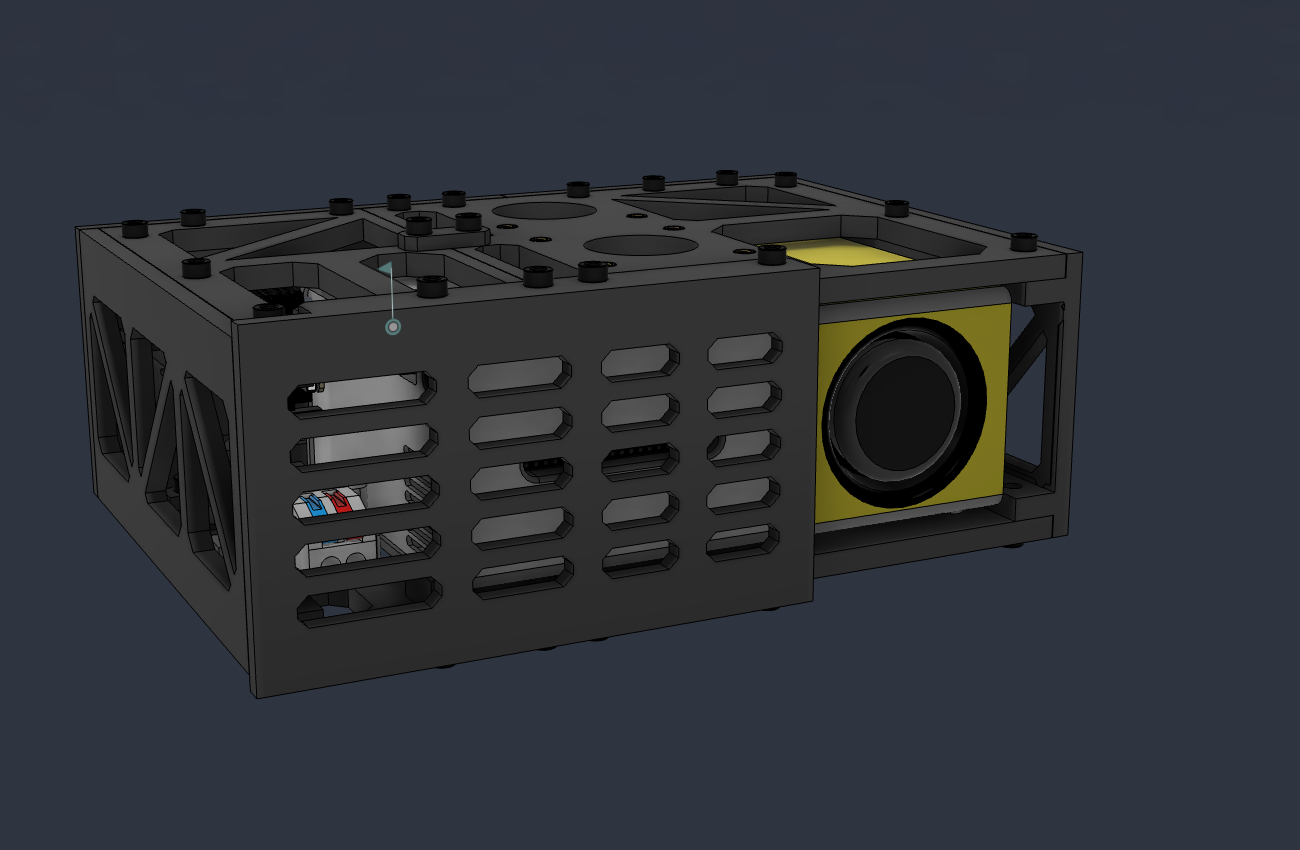
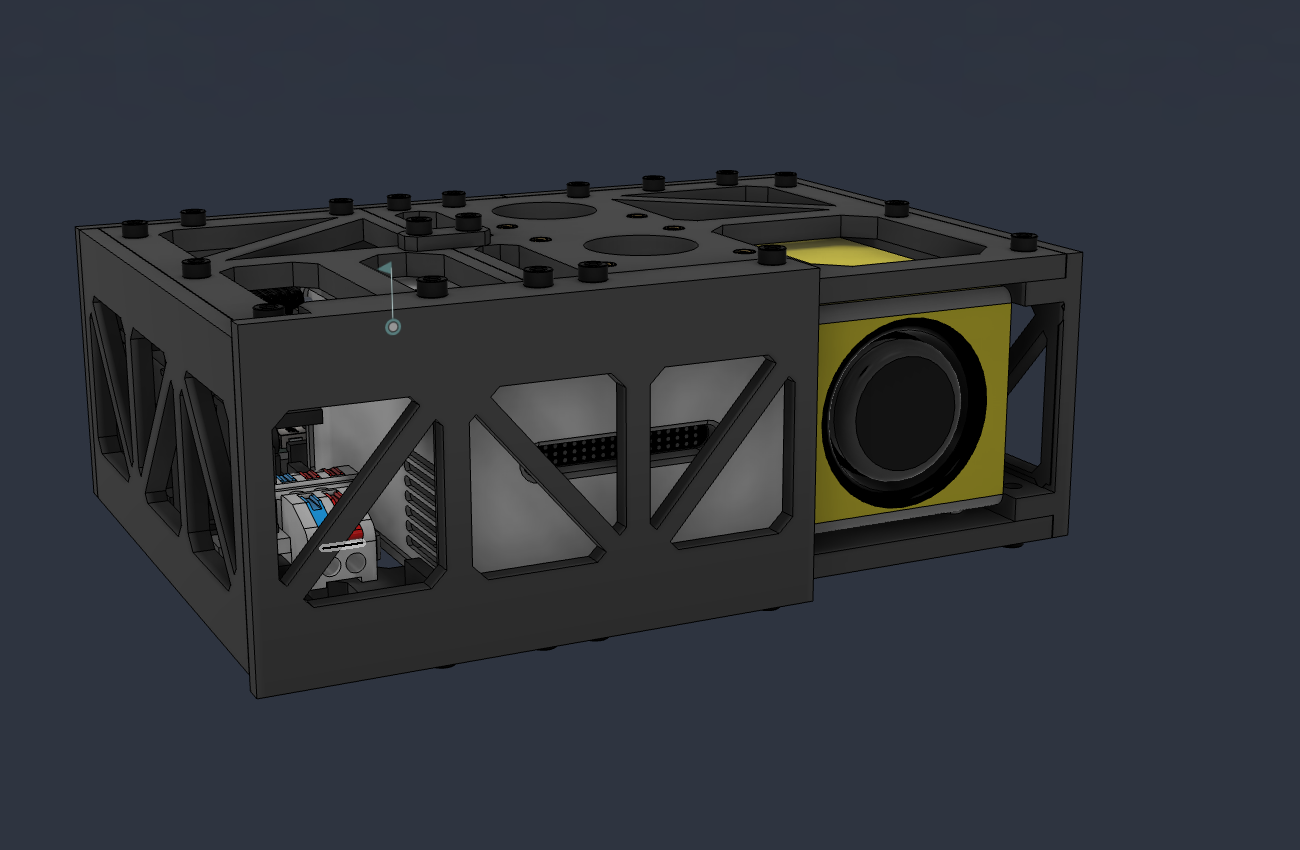
Enclosure: front grill with truss bays like the side panels
Slot rows out, three truss bays in. Lips and screws unchanged, fastener counts unchanged. CAGE.md and DESIGN_LANGUAGE.md follow, pictures 01, 03 and 08 taken again. Fusion: komorebi-cage version 24, komorebi-box version 51.

Claude-Session: https://claude.ai/code/session_01QMJv3CE2wa8HX6C5WvgqiM

Changed region(s): [[0.1846, 0.3976, 0.6154, 0.7341]]

diff --git a/enclosure/CAGE.md b/enclosure/CAGE.md
@@ -62,6 +62,7 @@ From Saurabh on `2026-11-25`, after the first prints:
 - **A board in a tray is held by a small clamp bar with one screw.** No snap arms.
 - **The side panels are truss bays,** like the modular Doscher frames. No half cut window, no cut-out made for one plug, and not just an open frame. Both sides as close as possible.
 - **The cage keeps its size.** The front grill stops the projector at the front.
+- **The front grill follows the sides.** Truss bays, no slot rows.
 - **A blower cools the projector's heat sink.** He takes the projector's cover off. The corner is full of wires, so the blower must leave them room.
 
 ---
@@ -130,8 +131,11 @@ All in mm, in the coordinates of `komorebi-box`: Y is up, the lens face is +Z, t
     "lip_z": [31.0, 40.2],
     "screw_x": [-86.1, -65.5, -54.5, -16.5],
     "screw_z": 35.5,
-    "slot_rows_y": [8.3, 17.8, 27.3, 36.8, 46.3],
-    "slot_height": 6.0,
+    "bays": 3,
+    "bay_x": [[-119.1, -88.07], [-83.07, -52.03], [-47.03, -16.0]],
+    "bay_y": [9.0, 45.0],
+    "post": 5.0,
+    "brace": 4.0,
     "projector_front_vent_x": [-68.7, -28.0],
     "projector_front_vent_y": [24.4, 30.3]
   },
@@ -224,7 +228,7 @@ In `komorebi-cage`: 19 components, 20 pieces with the second strap. Every part l
 | Rear frame | `Cage: rear frame` | 1 | 77.4 x 61 x 17 | The +X part, behind the Pico. Window behind the Pico, two holes for the Pico holder |
 | Rear frame, port | `Cage: rear frame, port` | 1 | 100.9 x 61 x 17 | The -X part, with the knob, the button and the DC socket |
 | Seam strap | `Cage: seam strap` | 2 | 19 x 8 x 3 | Flat bar with two holes across the plate seam, on the outside. One on the floor, one on the top, in the middle of the seam |
-| Front grill | `Cage: front grill` | 1 | 113.1 x 67 x 13.2 | Slotted web in front of the plate edges, from the -X end up to the lens panel. A lip over the outside of each plate |
+| Front grill | `Cage: front grill` | 1 | 113.1 x 67 x 13.2 | Web with three truss bays in front of the plate edges, from the -X end up to the lens panel. A lip over the outside of each plate |
 | Pico holder | `Pico holder: base` | 1 | 61.5 x 25.8 x 7.9 | Plate on the inside of the rear frame. Four posts with M2.5 inserts, two bosses with M3 inserts |
 | Buck tray | `Buck converter holder: tray` | 1 | 43.8 x 21.1 x 11 | Tray with a fixed lip, an end stop and a boss with an insert, see [Buck tray](#buck-tray) |
 | Buck clamp bar | `Buck converter holder: clamp bar` | 1 | 22.7 x 7.1 x 2.4 | Flat bar with a tab over the board's rear edge, one hole |
@@ -268,7 +272,12 @@ A partial front frame. It covers the front from the -X end up to the lens panel.
 - **It has no flanges.** There are 2 mm between a plate and the projector, and 3.8 mm in front of the projector. A flange with an insert does not fit there.
 - **It has a lip over the outside of each plate instead,** 3 thick and 9 deep. Four M3 x 8 per lip go through the lip into inserts in the plate, like on a strap.
 - **The two middle screws of each lip sit left and right of the plate seam.** So the grill is the front strap as well. Its web ties the two floor parts, the two top parts and the port end frame together.
-- **Five rows of slots.** The middle row is on the projector's own front vent. One mullion is on the plate seam, one on the projector's -X end.
+- **Three truss bays, like the side panels.** The same posts, braces and gussets, the same bay height. A bay is 31 wide here and 33.3 on the sides, because the grill is shorter.
+- **The zigzag goes on around the -X corner.** The last brace of the port end frame ends at the bottom of the corner, the first brace of the grill starts there.
+- **The second post stands in front of the projector's -X edge.**
+- **The projector's front vent is behind the second and the third bay.** Two braces and one post cross it, the rest is open.
+- **The grill is the projector's front stop.** Posts and braces are 4 mm in front of the model's front face, see [Projector stops](#projector-stops).
+- **No slot rows any more.** Saurabh's call on `2026-11-25`: the front has to look like the sides.
 - **It stops at X -11.** The lens panel starts at X -10.6.
 - **The lips start 14 mm in from the -X end.** A frame screw has its head under the floor there.
 - **It prints on its front face,** the lips stand up. 113 x 67 on the bed.
@@ -468,6 +477,7 @@ Saurabh on `2026-11-23`, after the split:
 Saurabh on `2026-11-25`, with almost everything printed except the front grill:
 
 - **Do the lips of the front grill hold on the plates?** The lips were reworked. Only the grill changed.
+- **The slot rows of the front grill do not fit the sides.** The grill has three truss bays now, see [Front grill](#front-grill).
 - **What else was overlooked?** A list with pictures, no edits. He tested most of it and said it is fine. Three points got fixed, the next three.
 - **The buck tray gets a small clamp bar with one screw.** Done, see [Buck tray](#buck-tray).
 - **The front corner of the port top plate had no screw.** It has one now, see [Side panels](#side-panels).
@@ -483,7 +493,7 @@ Saurabh on `2026-11-25`, with almost everything printed except the front grill:
 
 ## Checks
 
-Done on `2026-11-25` in `komorebi-cage` version 23 and `komorebi-box` version 49, by cutting the bodies with each other.
+Done on `2026-11-25` in `komorebi-cage` version 24 and `komorebi-box` version 51, by cutting the bodies with each other.
 
 - **No printed part cuts into another printed part.** All 20 pieces against each other.
 - **The blower, the two Wagos, the DC plug, the HDMI plug and the four new holder parts cut into nothing they should not.** The plugs sit in the projector's jacks, as before.
@@ -505,6 +515,7 @@ Room around the new parts:
 | Wago and terminal block | 0.6 |
 | Wago clamp bar and terminal block | 1.9 |
 | Wago and HDMI plug | 15.5 |
+| Front grill and projector model | 4.0 |
 
 > [!Warning]
 > **Two M2.5 heads at the Pico's USB end sit 0.35 mm in the shell of the USB socket,** in the model. File a flat on the two heads, or put that pair back to M2.
@@ -512,7 +523,7 @@ Room around the new parts:
 From `2026-11-23`, not checked again:
 
 - **One touch stays:** the socket's flange on the panel, under 0.1 mm.
-- **The projector's buttons, focus lever and ports are open.** Its front vent is behind the middle slot row of the grill.
+- **The projector's buttons, focus lever and ports are open.** Its front vent is behind the second and the third bay of the grill.
 
 ---
 
@@ -530,9 +541,9 @@ From `2026-11-23`, not checked again:
 - [ ] **Real size of the projector,** width, depth, height, and how far the lens ring stands out. Only the depth problem is known.
 - [ ] **PLA next to the projector's vents.** PLA gets soft at 55 to 60 degrees. The rear frame and the floor are 14 to 36 mm from the vents. Fine with the stock LED as far as we know, not checked with the brighter LED. PETG is the fallback. The blower bracket sits closest to the heat sink now.
 - [ ] **Which plug goes into the projector.** `HDMI-CY-17-UP` is plugged in now. Both CY models are 10.5 wide, which is mini HDMI size.
-- [ ] **Grill in front of the projector's front vent.** The middle slot row is on the vent, two mullions cross it. Not checked with the projector running.
+- [ ] **Grill in front of the projector's front vent.** Two braces and one post cross the vent, the rest is open. Not checked with the projector running.
 - [ ] **Head of the camera screw.** No model. A head up to 21 mm across clears the lip of the grill.
-- [ ] **[cad/build_cage.py](cad/build_cage.py) is behind the cage.** Bring it up to version 23 or retire it, see [Fusion traps](#fusion-traps).
+- [ ] **[cad/build_cage.py](cad/build_cage.py) is behind the cage.** Bring it up to version 24 or retire it, see [Fusion traps](#fusion-traps).
 - [x] **Lips or loose stops.** Decided on `2026-11-25`: fewer lips, the grill is the front stop, see [Projector stops](#projector-stops).
 - [x] **Snap hooks against the real board.** The snap arms are gone, a clamp bar holds the board, see [Buck tray](#buck-tray).
 
@@ -549,7 +560,7 @@ Print:
 3. **`Pico holder: base`:** M2.5 posts.
 4. **`Terminal block holder: clamp bar`.**
 5. **`Blower holder: bracket`** and **`Blower holder: clamp bar`:** after the heat sink is measured. The bracket lies on its wall face, Z reads 32.2 in the slicer.
-6. **`Cage: front grill`:** not printed yet, print the current one.
+6. **`Cage: front grill`:** not printed yet. Print the current one, with the truss bays.
 7. **`Wago holder: bracket`** and **`Wago holder: clamp bar`.** The bracket lies on its wall face, Z reads 9.4 in the slicer.
 
 Change by hand on the printed parts:
@@ -608,3 +619,5 @@ Change by hand on the printed parts:
 - Saurabh asked how the blower bracket is supposed to print. It lies on its wall face. The slicer step is in [Blower](#blower) and in [Print again](#print-again) now.
 - He added two Wago 221-2411 for the blower's wires. Bracket and clamp bar for them on the wall of the port end frame, two more inserts in its bottom flange. 126 fastener models, 127 fasteners. `komorebi-cage` version 23, `komorebi-box` version 49.
 - Pictures 04, 05 and 06 taken again, [assets/cage-10-wago-holder.png](assets/cage-10-wago-holder.png) is new.
+- Front grill: the slot rows are out, three truss bays like the side panels are in. Lips and screws did not change. Pictures 01, 03 and 08 taken again. `komorebi-cage` version 24, `komorebi-box` version 51.
+- In saved pictures the clear housing of the Wagos shows through other parts. For the overall pictures the two Wagos are hidden.

diff --git a/enclosure/DESIGN_LANGUAGE.md b/enclosure/DESIGN_LANGUAGE.md
@@ -57,7 +57,7 @@ It stands on its own. The reference, the images, the rules and the sources are a
 - Parts are **small, flat and repeated**. They are bolted together, not printed as one big piece.
 - Everything **prints flat without supports**. Never a chamfer on the bed face.
 - **One screw size for the cage.** Screws go into heat-set inserts, they show, and they are reachable from outside.
-- **A side is a row of equal truss bays.** No window made for one plug.
+- **A side or a front is a row of equal truss bays.** No window made for one plug.
 - **Air gaps are designed**, not left over. Nothing sits in front of a vent.
 - **Wires keep their room**, even where they are not modelled yet.
 - The look is **plain and honest**: open trusses, cut window corners, slot vents in rows, one dark matte colour, visible screws.
@@ -194,7 +194,7 @@ Vents are part of the frame from the start.
 - **Quick Kit:** a gap above and below the screen cools passively.
 - **Obelisk:** a gap between each stacked unit, and an open top.
 - **Cluster Deck:** boards stacked too close overheated, so he turned them to let air pass across.
-- **For us:** the cage is open on purpose. Nothing sits in front of the projector's vents. One slot row of the grill is on its front vent. A blower helps the heat sink.
+- **For us:** the cage is open on purpose. Nothing sits in front of the projector's vents. The grill in front of its front vent is open truss bays. A blower helps the heat sink.
 
 ### 8. Build it up in steps
 
@@ -258,12 +258,12 @@ Checked against the images in [assets/doscher](assets/doscher) on `2026-11-23` a
 
 1. **Windows in the plates are octagons.** Rectangles with all four corners chamfered. No sharp inside corners, no round holes except for round parts.
 2. **A truss window in a plate has one diagonal rib,** 6 wide. The two diagonals of a pair open toward the front.
-3. **A side panel is a row of equal truss bays.** Posts 5 wide, one brace of 4 per bay, in a zigzag, a small gusset in each corner. Three bays on the end frames.
+3. **A side panel is a row of equal truss bays.** Posts 5 wide, one brace of 4 per bay, in a zigzag, a small gusset in each corner. Three bays on the end frames and three on the front grill. The bay width follows the length of the panel, everything else stays. The zigzag goes on around the corner.
 4. **No window is shaped for one plug.** No half cut window, no step, and not just an open frame. Plugs and cables go through the bays.
 5. **Both sides read the same from outside.** The web of one end frame is the other one turned, not mirrored.
 6. **Members keep their width.** Bands 8 to 10, ribs 6 to 8 in the plates.
 7. **Outer edges are square.** No chamfer through the thickness, no fillets. A corner may be cut in plan view, that prints clean.
-8. **Slot vents come in rows.** A mullion sits behind the knob, so the knob has slots left and right of it. On the grill one row sits on the projector's own vent.
+8. **Slot vents come in rows, and only on the rear frame.** A mullion sits behind the knob, so the knob has slots left and right of it. The front grill has truss bays.
 9. **Screws show.** Cap heads stand proud, on a line 5 mm inside the edge, the same on floor and top.
 10. **One colour.** Dark grey, matte.
 11. **A later part hides where it can.** The leg of the blower bracket stands behind a post of the truss.
@@ -359,3 +359,4 @@ Other:
 
 - [Recovery Kit 2 and 2B frame enclosure, print guidelines](https://raw.githubusercontent.com/jdoscher/Recovery-Kit-2-and-2B-Open-Source-Frame-Enclosure/main/License%20and%20Print%20Guidelines.txt) (GitHub)
 - Later the same day: the Wago bracket, the second part that prints on its wall face. The slicer step for such a part is written down in [CAGE.md](CAGE.md#print-again).
+- The front grill went from slot rows to truss bays. One pattern for the sides and the front now.

diff --git a/enclosure/README.md b/enclosure/README.md
@@ -62,4 +62,4 @@ enclosure/
 
 Screenshots from `komorebi-box`, taken on `2026-11-25`. They get taken again when the cage changes.
 
-All ten show the split cage with the front grill and the fasteners in place. For picture 05 the top plate and its screws are hidden, for pictures 07, 09 and 10 the projector too. Picture 07 also hides the blower and the two plugs.
+All ten show the split cage with the front grill and the fasteners in place. For picture 05 the top plate and its screws are hidden, for pictures 07, 09 and 10 the projector too. Pictures 01, 03 and 08 hide the two Wagos, their clear housing shows through other parts in a saved picture. Picture 07 also hides the blower and the two plugs.
